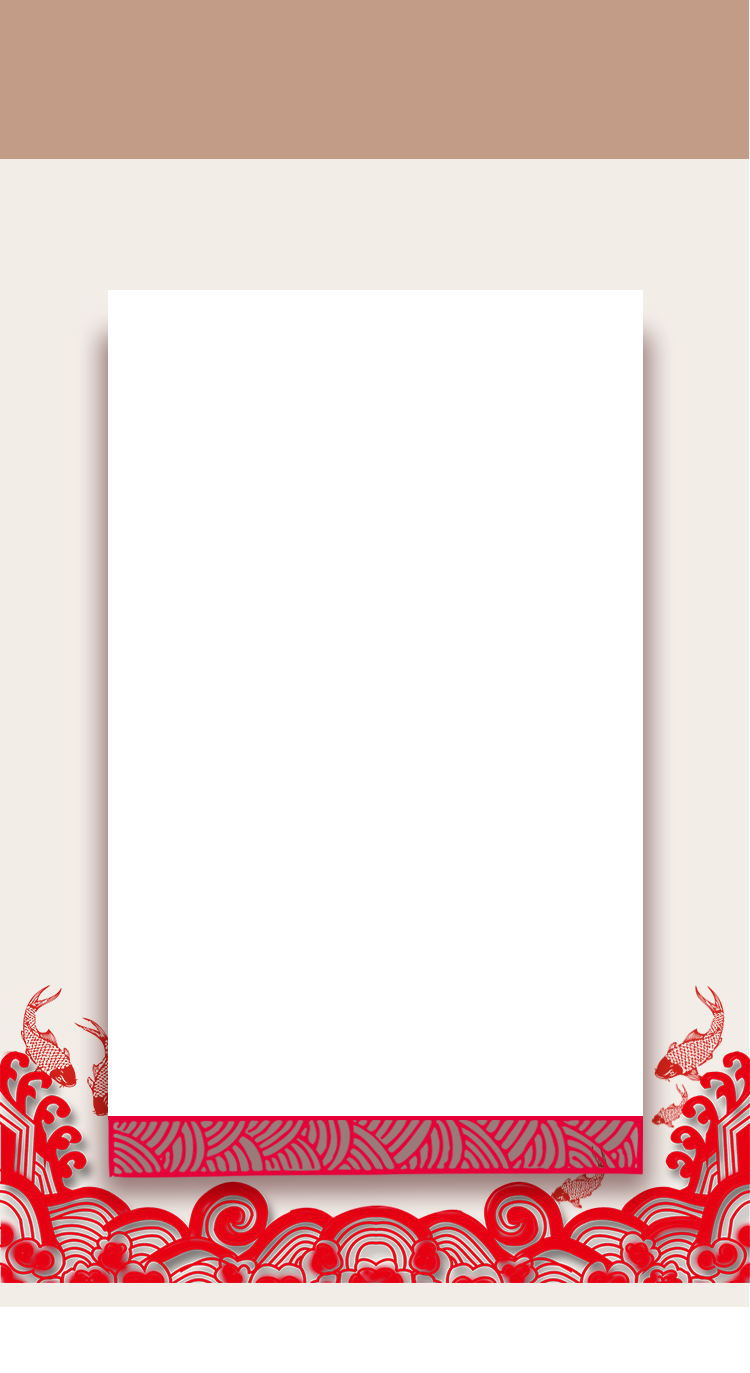
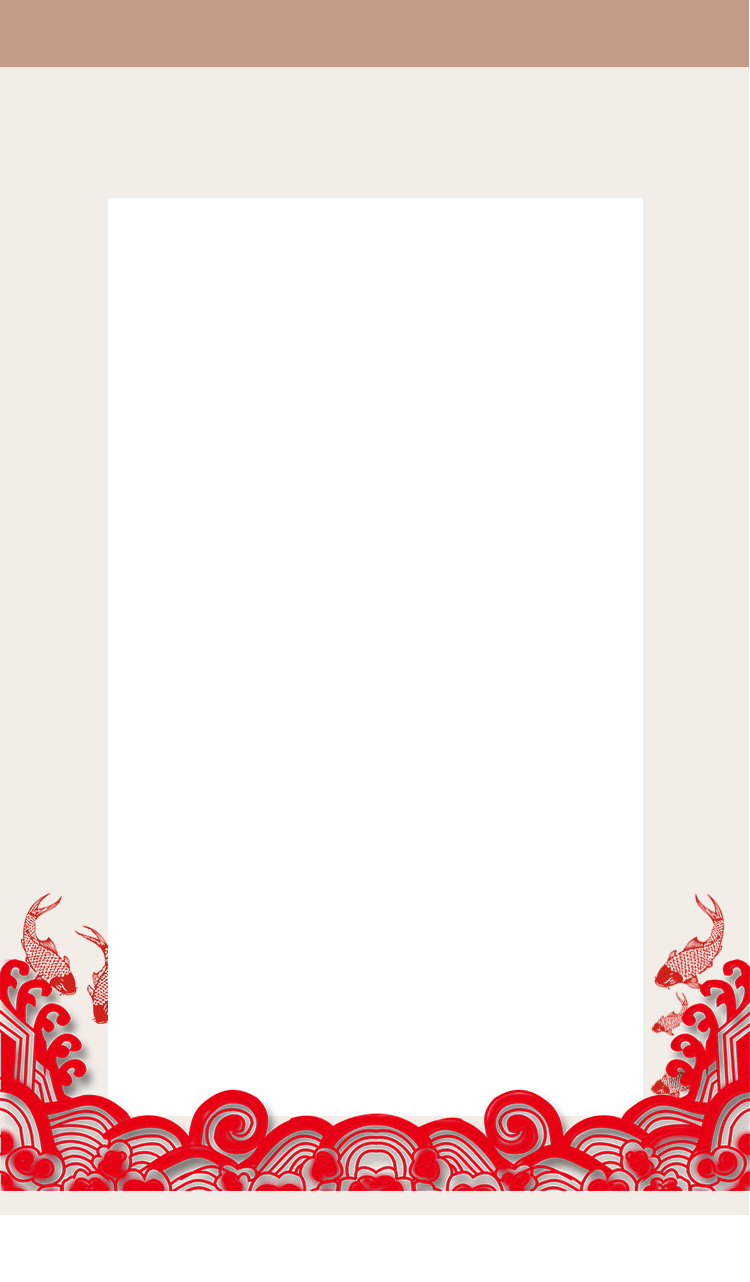
修改

Changed region(s): [[0.0, 0.2184, 1.0, 0.936], [0.0, 0.0312, 1.0, 0.1248]]

diff --git a/src/pages/pandp/index.vue b/src/pages/pandp/index.vue
@@ -3,7 +3,7 @@
         <canvas id="canvas"></canvas>
         <img id="border" src="/static/pandp/border.png"/>
         <img id="mImg" src=""/>
-        <img class="note" :src="IMG_URL + 'note.png'"/>
+        <img class="note" :src="IMG_URL + 'note.png'" v-show ="note"/>
         <wx-share :WxShareInfo="wxShareInfo"></wx-share>
     </div>
 
@@ -20,6 +20,7 @@ export default {
       content: null,
       width: null,
       height: null,
+      note: false,
       type: this.$route.query.type,
       id: this.$route.query.id,
       //微信分享
@@ -72,7 +73,7 @@ export default {
       bg.onload = function() {
         canvas.width = bg.width
         canvas.height = bg.height
-        ctx.drawImage(bg, 0, 0)
+        console.log(bg.height)
         img.onload = function() {
           ctx.drawImage(
             img,
@@ -81,10 +82,11 @@ export default {
             img.width,
             img.height,
             -bg.width * 0.09,
-            bg.height * 0.12,
+            bg.height * 0.22,
             bg.width * 1.18,
             img.height * bg.width * 1.18 / img.width
           )
+          ctx.drawImage(bg, 0, 0)
           cover.onload = function() {
             ctx.drawImage(
               cover,
@@ -97,7 +99,6 @@ export default {
               bg.width,
               bg.height * 0.95
             )
-
             word.onload = function() {
               ctx.drawImage(
                 word,
@@ -105,9 +106,9 @@ export default {
                 0,
                 word.width,
                 word.height,
-                bg.width * 0.12,
-                bg.height * 0.035,
-                bg.width * 0.76,
+                bg.width * 0.15,
+                bg.height * 0.052,
+                bg.width * 0.7,
                 bg.height * 0.19
               )
               text.onload = function() {
@@ -117,12 +118,12 @@ export default {
                   0,
                   text.width,
                   text.height,
-                  bg.width * 0.3,
-                  bg.height * 0.05,
-                  bg.width * 0.4,
-                  bg.height * 0.18
+                  bg.width * 0.32,
+                  bg.height * 0.07,
+                  bg.width * 0.36,
+                  bg.height * 0.167
                 )
-                that.drawPloygen(canvas, 5, bg.width * 0.115, bg.height * 0.085)
+                that.drawPloygen(canvas, 5, bg.width * 0.1, bg.height * 0.102)
               }
               text.src = b_url + './text.png'
             }
@@ -141,6 +142,12 @@ export default {
       let ctx = canvas.getContext('2d')
       let lineR = radius + 15
       let score = []
+      if (window.localStorage.getItem('ppscore')) {
+        score = window.localStorage.getItem('ppscore').split(',')
+      } else {
+        score = []
+      }
+
       ctx.translate(canvas.width / 2, radius + top)
       ctx.rotate(Math.PI)
       ctx.save()
@@ -162,30 +169,31 @@ export default {
       //圆心为（0，0）
       //内部不规则多边形
       ctx.beginPath()
-      ctx.lineWidth = 5 //5
+      ctx.lineWidth = 2 //5
       ctx.lineJoin = 'round'
-      //ctx.strokeStyle = '#baa7a3'
-      let gradient = ctx.createRadialGradient(0, 0, lineR, 0, 0, 10)
-      gradient.addColorStop(0, '#baa7a3')
-      gradient.addColorStop(1, '#f2ece7')
-      let gradient2 = ctx.createLinearGradient(0, 0, lineR, 0, 0, 10)
-      gradient2.addColorStop(0, 'rgba(186,167,163,1)')
-      gradient2.addColorStop(0.4, 'rgba(186,167,163,0.4)')
-      gradient2.addColorStop(0.6, 'rgba(186,167,163,0)')
-      gradient2.addColorStop(1, 'rgba(186,167,163,0)')
-      for (let i = 0; i < num; i++) {
-        let k = Math.random()
-        //k = k < 0.2 ? 0.2 : k
-        let x = lineR * Math.sin(angle * i),
-          y = lineR * Math.cos(angle * i)
-        ctx.lineTo(k * x, k * y)
-        let kScore = Math.floor(k * 100)
-        score.push(kScore)
+      ctx.strokeStyle = '#baa7a3'
+      if (!score.length) {
+        for (let i = 0; i < num; i++) {
+          let k = Math.random()
+          //k = k < 0.2 ? 0.2 : k
+          let x = lineR * Math.sin(angle * i),
+            y = lineR * Math.cos(angle * i)
+          ctx.lineTo(k * x, k * y)
+          let kScore = Math.floor(k * 100)
+          score.push(kScore)
+        }
+      } else {
+        for (let i = 0; i < num; i++) {
+          let k = score[i] / 100
+          //k = k < 0.2 ? 0.2 : k
+          let x = lineR * Math.sin(angle * i),
+            y = lineR * Math.cos(angle * i)
+          ctx.lineTo(k * x, k * y)
+        }
       }
-      ctx.fillStyle = gradient
+      window.localStorage.setItem('ppscore', score.toString())
       ctx.closePath()
       ctx.stroke()
-      ctx.fill()
       ctx.save()
       //画正多边形
       let points = []
@@ -207,12 +215,13 @@ export default {
       }
 
       //显示的数字值
+
       ctx.beginPath()
       ctx.rotate(-angle / 2)
       ctx.translate(0, -radius)
       ctx.rotate(-Math.PI)
       ctx.beginPath()
-      ctx.font = 'bold 28px sans-serif'
+      ctx.font = 'bold 24px sans-serif'
       ctx.textAlign = screenLeft
       ctx.textBaseline = 'middle'
       ctx.fillStyle = '#baa7a3'
@@ -222,27 +231,27 @@ export default {
       ctx.fillText(
         score[0],
         lineR * 1.5 * Math.sin(0) - 12,
-        -lineR * 1.5 * Math.cos(0) + 5
+        -lineR * 1.5 * Math.cos(0) + 8
       )
       ctx.fillText(
         score[4],
-        lineR * 1.5 * Math.sin(angle) - 33,
-        -lineR * 1.5 * Math.cos(angle) - 22
+        lineR * 1.5 * Math.sin(angle) - 30,
+        -lineR * 1.5 * Math.cos(angle) - 15
       )
       ctx.fillText(
         score[3],
-        lineR * 1.5 * Math.sin(angle * 2) - 14,
-        -lineR * 1.5 * Math.cos(angle * 2) - 50
+        lineR * 1.5 * Math.sin(angle * 2) - 13,
+        -lineR * 1.5 * Math.cos(angle * 2) - 43
       )
       ctx.fillText(
         score[2],
         lineR * 1.5 * Math.sin(angle * 3) - 15,
-        -lineR * 1.5 * Math.cos(angle * 3) - 50
+        -lineR * 1.5 * Math.cos(angle * 3) - 43
       )
       ctx.fillText(
         score[1],
         lineR * 1.5 * Math.sin(angle * 4) - 5,
-        -lineR * 1.5 * Math.cos(angle * 4) - 20
+        -lineR * 1.5 * Math.cos(angle * 4) - 15
       )
       ctx.closePath()
       ctx.fill()
@@ -253,6 +262,7 @@ export default {
       let url = canvas.toDataURL('image/png')
       let img = document.getElementById('mImg')
       img.src = url
+      this.note = true
     }
   },
   components: {
